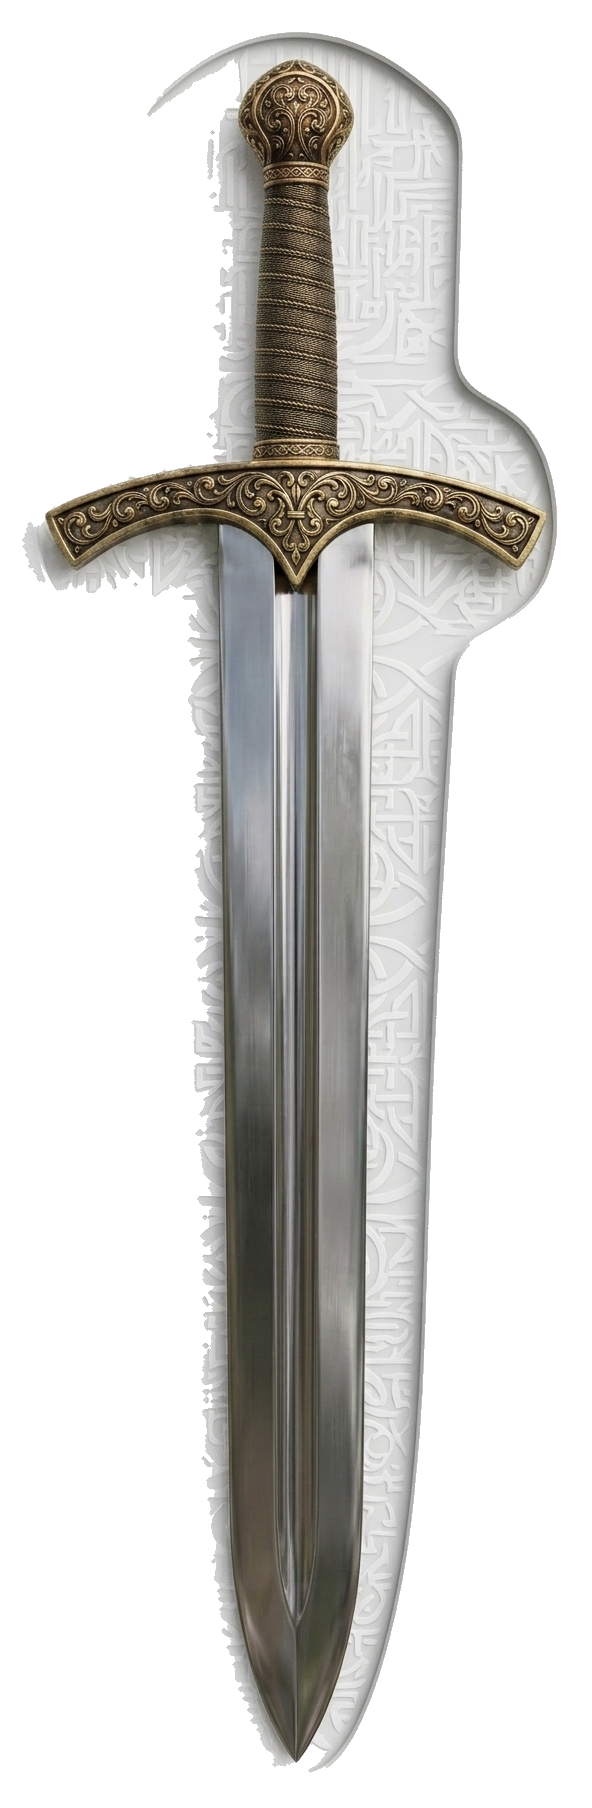
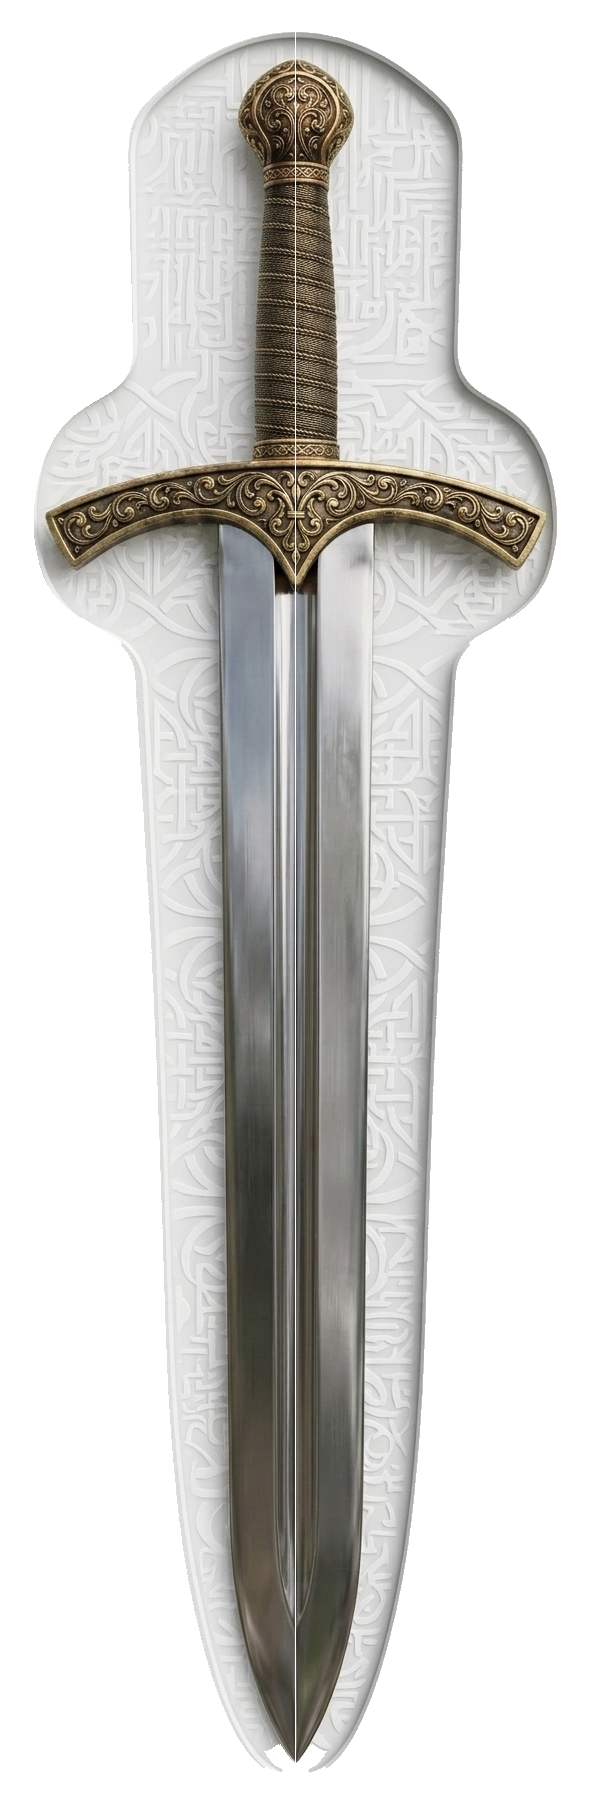
Mirror the clean right-side sword cut onto the left side
The left edge of the sword-token cutout was ragged. Since the sword is centered
(dark-pixel centroid x=295 ~= image center), reflect the good right-half mask
about the blade axis to rebuild a clean, symmetric left half, then apply the same
symmetric mask to both white and black swords.

Bump to shadows-v136.

Changed region(s): [[0.0304, 0.031, 0.4257, 0.9602], [0.4257, 0.9602, 0.4865, 0.9912]]

diff --git a/index.html b/index.html
@@ -1303,7 +1303,7 @@
 
   <script>
     'use strict';
-    const APP_VERSION = 'shadows-v135';
+    const APP_VERSION = 'shadows-v136';
     document.getElementById('app-version').textContent = APP_VERSION;
 
     // ═══════════════════════════════════════════════════════════════════

diff --git a/sw.js b/sw.js
@@ -2,7 +2,7 @@
 // Cache-first for assets, network-first for HTML.
 // Bump CACHE_NAME (and APP_VERSION in index.html) to invalidate cache on updates.
 
-const CACHE_NAME = 'shadows-v135';
+const CACHE_NAME = 'shadows-v136';
 
 const ASSETS_TO_CACHE = [
   './',
